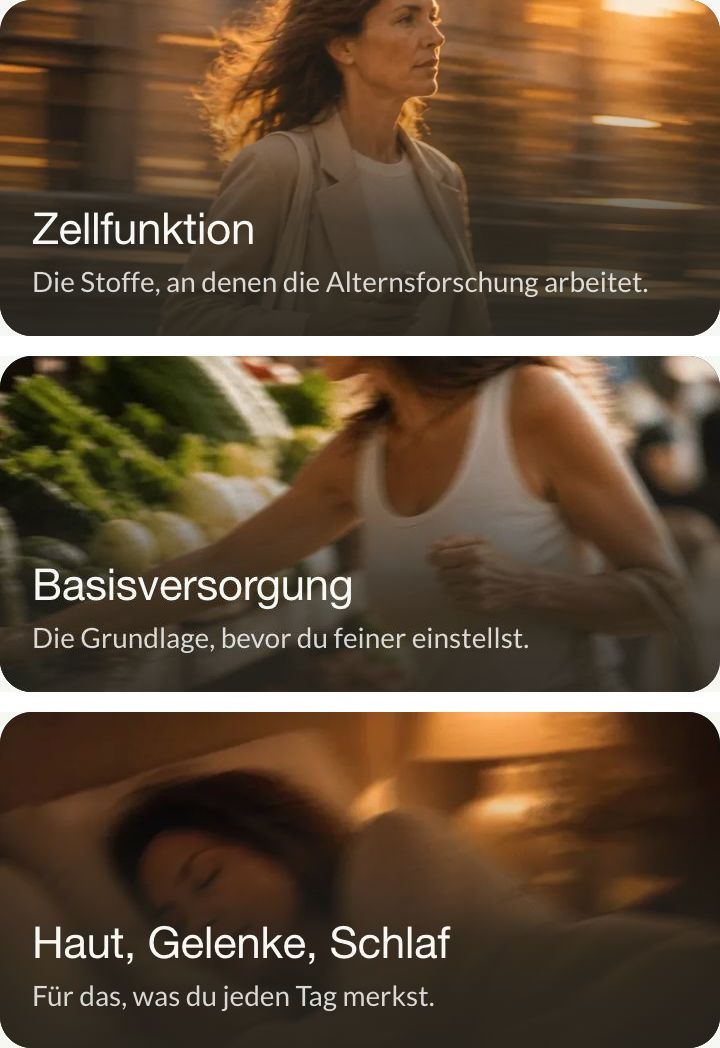
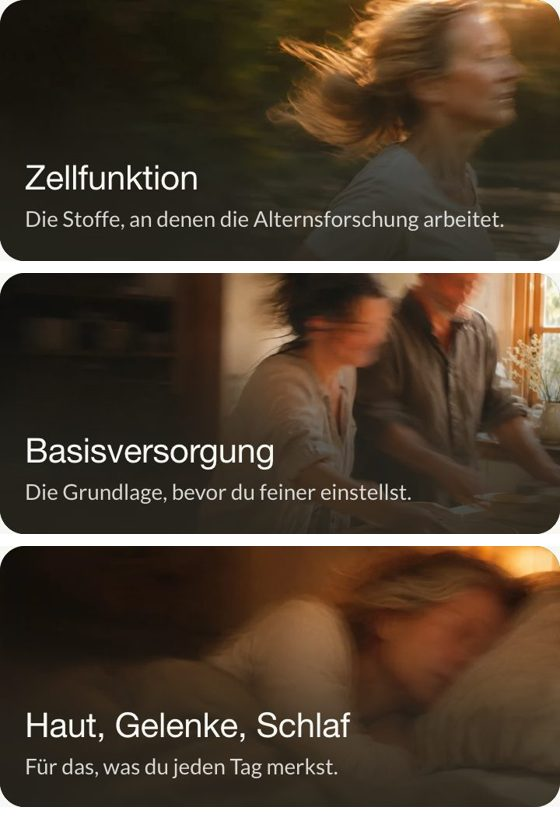
docs(bildwelt): vier neue Motive eingetragen, NMN-Rohstoffkarte als Bildkarte im Patch
Katalog-Bänder (lt-kat-*) und NMN-Stillleben (lt-nmn-stillleben) liegen in den Shopify-Dateien.
Templates bleiben im Repo unverändert, Stand nur im Vorschau-Theme 193736180087.

diff --git a/docs/bildwelt-2026-11-16/templates-patch.py b/docs/bildwelt-2026-11-16/templates-patch.py
@@ -3,8 +3,8 @@
 
 Setzt die Template-Änderungen auf einen Theme-Ordner: python3 templates-patch.py <theme-root>
 Läuft auf dem Repo und auf einem frisch gezogenen Live-Stand (Kommentarkopf bleibt erhalten).
-Mehrfach ausführbar. Motive mit PLATZHALTER sind vorhandene Startseiten-Bilder, bis die
-neuen Motive erzeugt sind (Prompts in README.md).
+Mehrfach ausführbar. Die vier neuen Motive (lt-kat-*, lt-nmn-stillleben) liegen seit 16.11. in
+den Shopify-Dateien, Prompts in README.md.
 """
 import json, re, sys
 from pathlib import Path
@@ -35,10 +35,10 @@ hero.update({
     "image_alt": "LIFETIME Kollektion: AGE & DNA-Test, NMN, Kreatin, Fisetin, Spermidin und TMG",
     "padding_top": 0,
 })
-gruppen = {  # PLATZHALTER-Motive
-    "grp_zellfunktion": ("lt-hp-bereich-ki-bewegung-c.webp", "Die Stoffe, an denen die Alternsforschung arbeitet.", "50% 26%"),
-    "grp_basis": ("lt-hp-bereich-markt-gemuese.webp", "Die Grundlage, bevor du feiner einstellst.", "70% 30%"),
-    "grp_alltag": ("lt-hp-bereich-schlafen.webp", "Für das, was du jeden Tag merkst.", "40% 46%"),
+gruppen = {  # Motive vom 16.11.2026 (ChatGPT, Projekt ki-bilder), Querformat 3:2, Motiv rechts
+    "grp_zellfunktion": ("lt-kat-zellfunktion.webp", "Die Stoffe, an denen die Alternsforschung arbeitet.", "60% 14%"),
+    "grp_basis": ("lt-kat-basis.webp", "Die Grundlage, bevor du feiner einstellst.", "70% 34%"),
+    "grp_alltag": ("lt-kat-alltag.webp", "Für das, was du jeden Tag merkst.", "70% 62%"),
 }
 for key, (bild, satz, pos) in gruppen.items():
     d["sections"]["naehrstoffe"]["blocks"][key]["settings"].update({"image": IMG + bild, "text": satz, "position": pos})
@@ -77,7 +77,7 @@ d["sections"]["schluss"] = {
         "button_label": "Größe wählen →",
         "button_url": "#main",
         "small": "Versand in 1–2 Werktagen · 90 Tage Geld zurück",
-        "image": IMG + "nad-liposom.jpg",  # PLATZHALTER, bis das NMN-Stillleben da ist
+        "image": IMG + "lt-nmn-stillleben.webp",
         "footer_nahtlos": True,
         "kompakt_mobil": True,
         "fakt_1_zahl": "100,1 %",
@@ -88,6 +88,11 @@ d["sections"]["schluss"] = {
         "fakt_3_text": "Geld zurück",
     },
 }
+# Karte „Der Rohstoff“ wird zur Bildkarte (Muster NAD⁺), dasselbe Stillleben, scharf
+d["sections"]["belege"]["settings"].update({
+    "rohstoff_image": IMG + "lt-nmn-stillleben.webp",
+    "rohstoff_image_alt": "Uhrglas mit weißem Pulver, Laborspatel und Messzylinder auf Travertin",
+})
 order = d["order"]
 if "schluss" not in order:
     order.insert(order.index("main_product_hidden") if "main_product_hidden" in order else len(order), "schluss")

diff --git a/docs/bildwelt-2026-11-16/README.md b/docs/bildwelt-2026-11-16/README.md
@@ -31,7 +31,7 @@ Aufnahmen in `vorschau/`.
 | Katalog | Gruppenmarken (Zellfunktion, Basisversorgung, Haut/Gelenke/Schlaf) als Bildband mit einem Satz | `lifetime-collection-grid`, Block `group_label` mit `image`, `text`, `position` |
 | Katalog | „Wonach suchst du?“ als Schluss-Leiste: verwischtes Foto rechts, Liste zweispaltig, nahtlos in den Footer | `lt-katalog-index`, Settings `image`, `footer_nahtlos` |
 | Wissenschaft | Schluss-Leiste am Seitenende, im Validierungs-Block das Laufpaar statt der kühlen Schwimmerin | nur Template |
-| NMN-PDP | Schluss-Leiste mit drei Fakten, Bild ohne Menschen | nur Template |
+| NMN-PDP | Schluss-Leiste mit drei Fakten und Karte „Der Rohstoff“ als Bildkarte, beides mit dem Stillleben ohne Menschen | nur Template |
 
 Alle neuen Settings stehen per Default auf aus. Die Sections sind im Repo, die Template-Änderungen
 **nicht**: sie liegen nur im Vorschau-Theme, damit ein normaler Push sie nicht versehentlich live
@@ -41,66 +41,29 @@ nimmt. Nach der Freigabe:
 python3 docs/bildwelt-2026-11-16/templates-patch.py .
 ```
 
-## Platzhalter
+## Motive (16.11.2026, ChatGPT, Projekt `ki-bilder`)
 
-Vier Motive sind vorhandene Bilder, bis die neuen erzeugt sind (ChatGPT-Zugriff wurde am 16.11.
-im Dialog abgelehnt, deshalb stehen hier die Aufträge):
+Die vier Platzhalter sind ersetzt. Die Motive liegen als WebP in den Shopify-Dateien, die
+Originale in `lifetime-mockups/ki-bilder/`, Prompts in `lifetime-mockups/lifestyle/QUELLEN.md`.
 
-| Stelle | Platzhalter | Zieldatei |
+| Stelle | Datei | Format |
 |---|---|---|
-| Katalog, Band Zellfunktion | `lt-hp-bereich-ki-bewegung-c.webp` | `lt-kat-zellfunktion.webp` |
-| Katalog, Band Basisversorgung | `lt-hp-bereich-markt-gemuese.webp` | `lt-kat-basis.webp` |
-| Katalog, Band Haut, Gelenke, Schlaf | `lt-hp-bereich-schlafen.webp` | `lt-kat-alltag.webp` |
-| NMN-PDP, Leiste | `nad-liposom.jpg` | `lt-nmn-stillleben.webp` |
+| Katalog, Band Zellfunktion | `lt-kat-zellfunktion.webp` | 1536 × 1024 |
+| Katalog, Band Basisversorgung | `lt-kat-basis.webp` | 1536 × 1024 |
+| Katalog, Band Haut, Gelenke, Schlaf | `lt-kat-alltag.webp` | 1536 × 1024 |
+| NMN-PDP, Leiste (verwischt) und Bildkarte „Der Rohstoff“ (scharf) | `lt-nmn-stillleben.webp` | 1774 × 887 |
 
-Das NMN-Stillleben trägt später auch die Bildkarte „Der Rohstoff“ (`lt-pdp-belege`,
-`rohstoff_image`, Muster NAD⁺).
-
-## Aufträge für ChatGPT (Projekt `ki-bilder`)
-
-Gemeinsamer Stil für 1 bis 3: wie die eigenen Bewegungsbilder (Vorlagen
-`../lifestyle/freundinnen-spaziergang.jpg`, `sport-laufen-paar.jpg`, `ki-bewegung-b2.jpg`).
-Mitzieher mit starker Bewegungsunschärfe, tiefe warme Sonne oder warmes Lampenlicht, Filmkorn,
-Gesichter durch die Bewegung nicht erkennbar, kein Text, keine Logos, kein Produkt.
-**Querformat 3:2 (1536 × 1024). Motiv in der rechten Bildhälfte, das linke Drittel ruhig und
-dunkel**, dort steht später die Schrift.
-
-```text
-1  katalog-zellfunktion.png
-Eine Frau Anfang 50 läuft bei tiefer Abendsonne zügig einen Uferweg entlang, von der Seite,
-Oberkörper und Kopf im Bild. Mitzieher mit starker Bewegungsunschärfe, Haare und Gesicht verwischt,
-Licht von hinten rechts. Links im Bild dunkles, unscharfes Ufergrün ohne Details.
-
-2  katalog-basis.png
-Ein Paar Mitte 40 morgens in einer bewohnten Küche, beide in Bewegung am Tresen, einer greift
-nach einer Schale, hartes Morgenlicht durchs Fenster rechts. Kamera leicht mitgezogen, Gesichter
-und Hände verwischt, Holz, Keramik, Obst. Links im Bild ein dunkler, unscharfer Küchenschrank.
-
-3  katalog-alltag.png
-Eine Frau um 50 liegt abends im Bett auf der Seite, Kopf auf dem Kissen in der rechten Bildhälfte,
-warmes Licht einer Nachttischlampe rechts hinten. Leichte Kamerabewegung, alles weich, Leinen in
-Beigetönen. Links im Bild läuft die Bettdecke unscharf ins Dunkel.
-```
-
-```text
-4  nmn-stillleben.png   (ohne Menschen, Querformat 2:1, 2400 × 1200)
-Stillleben in tiefem, warmem Abendlicht: auf einem Travertin-Block steht ein Uhrglas mit feinem
-weißem Pulver, daneben ein Laborspatel aus Edelstahl und ein schmaler Messzylinder aus Glas, der
-das Licht bricht. Warme Wand in Hellbeige (#f2f1ed), weicher Blattschatten. Alles in der rechten
-Bildhälfte, links leere Wand. Kein Wasserglas, kein Löffel, keine Hände, keine Verpackung, kein
-Text, kein kaltes Blau. 50 mm, geringe Schärfentiefe, Filmkorn.
-```
-
-Danach: als WebP in die Shopify-Dateien, Namen wie in der Tabelle, in `templates-patch.py` die
-vier Dateinamen tauschen, Eintrag in `lifetime-mockups/lifestyle/QUELLEN.md`.
+Für weitere Bänder gilt dieselbe Bestellung: Querformat 3:2, Motiv in der rechten Bildhälfte,
+das linke Drittel ruhig und dunkel. Hochformate taugen dafür nicht, es bleibt nur ein Streifen
+Oberkörper. Auf der NMN-PDP keine Menschen, keine Hände, keine Einnahme-Requisiten (Wasserglas,
+Löffel).
 
 ## Noch nicht gebaut (Reihenfolge aus dem Konzept)
 
 1. Wissenschaft: Limmroth am Mikro groß als Auftakt, „Mehr erfahren“ als Foto-Karten.
 2. AGE&DNA-PDP: Stimmen als Foto-Karten statt Text-Bewertungen, Ablauf-Schritte mit Bildern.
 3. Neben-PDPs: Leiste und Lifestyle-Bild an zweiter Stelle der Galerie.
-4. NMN-PDP: Bildkarte „Der Rohstoff“ mit dem Stillleben.
-5. `DESIGN.md` nachziehen (Foto-Hero ist dort noch untersagt).
+4. `DESIGN.md` nachziehen (Foto-Hero ist dort noch untersagt).
 
 ## Geprüft
 
